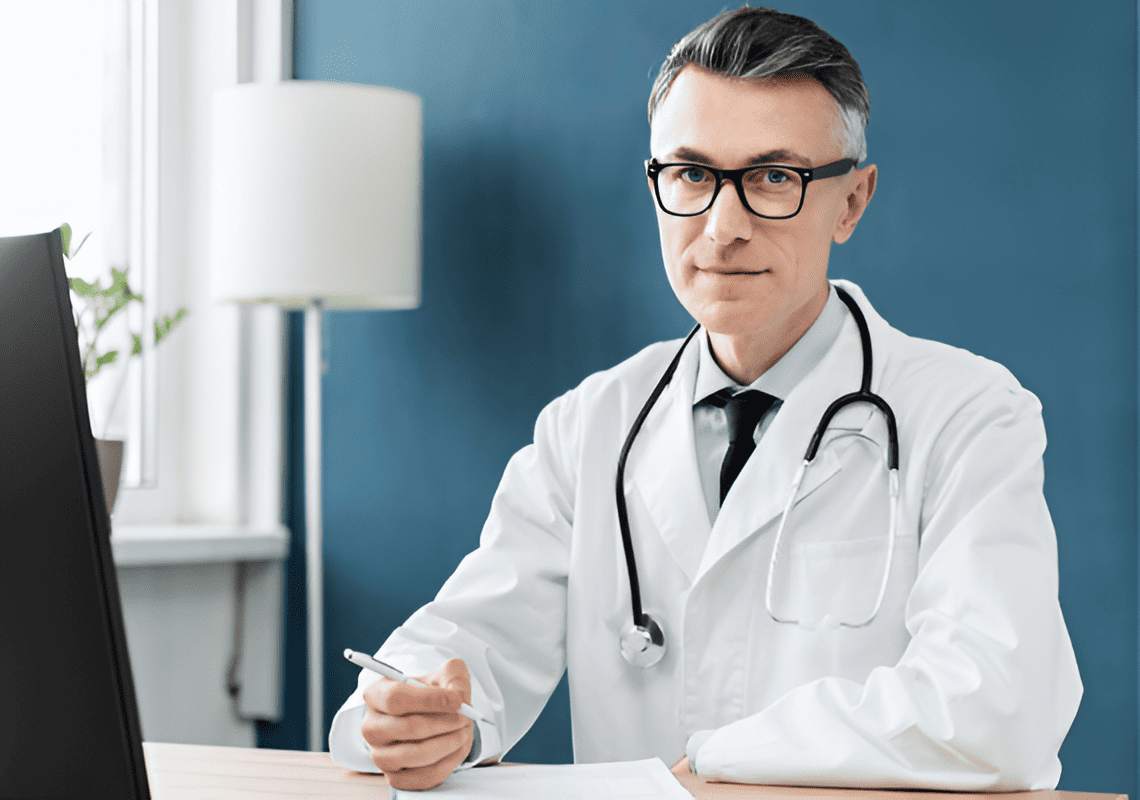
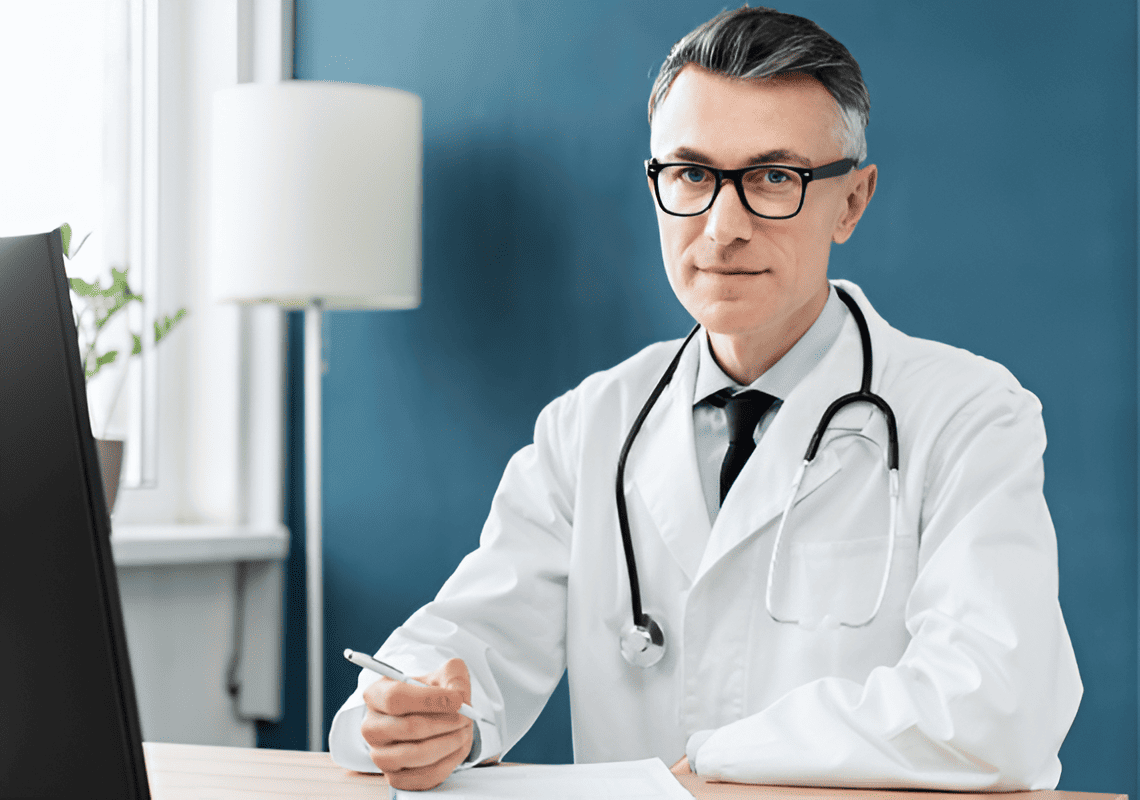
changes images

diff --git a/index.html b/index.html
@@ -43,7 +43,7 @@
             <div class="hero-container-1">
                 <h2 class="title">We are <span class="red-word-title">dedicated</span> to&nbsp;improving heart health and&nbsp;<span class="red-word-title">saving</span> lives</h2>
                 <p class="text-style-body-m">Join us in our commitment to a heart-healthy future by exploring our&nbsp;programs, accessing valuable health information, and discovering how you can get involved in our community</p>
-                <button class="how-it-work-button primary-btn xl-btn">How it work</button>
+                <button class="how-it-works-button primary-btn xl-btn">How it works</button>
             </div>
 
             <div class="hero-container-2">
@@ -67,16 +67,16 @@
 
         <div class="grid-container-section-3">
             <div class="card-1">
-                <img class="narrow-image" src="Images/Rectangle 21.png" alt="Image">
+                <img class="narrow-image" src="Images/card-1-img.png" alt="Image">
                 <div class="card-info">
-                    <h3 class="text-style-subtitle-h1">Remote monitoring support</h3>
-                    <p class="text-style-body-s">Wearable devices and mobile apps</p>
+                    <h3 class="text-style-subtitle-h1">3D printing for heart models</h3>
+                    <p class="text-style-body-s">Use 3D-printed heart models</p>
                 </div>
                 <button class="read-more-button link-btn l-btn">Read more</button>
             </div>
 
             <div class="card-2">
-                <img class="wide-image" src="Images/Rectangle 20.png" alt="Image">
+                <img class="wide-image" src="Images/card-2-img.png" alt="Image">
                 <div class="card-info">
                     <h3 class="text-style-subtitle-h1">Wearable devices for control</h3>
                     <p class="text-style-body-s">Smartwatches and other devices</p>
@@ -85,16 +85,16 @@
             </div>
 
             <div class="card-3">
-                <img class="narrow-image" src="Images/Rectangle 22.png" alt="Image">
+                <img class="narrow-image" src="Images/card-3-img.png" alt="Image">
                 <div class="card-info">
-                    <h3 class="text-style-subtitle-h1">Genetic testing and medicine</h3>
-                    <p class="text-style-body-s">Genetic screenings for prevention</p>
+                    <h3 class="text-style-subtitle-h1">Telemedicine for education</h3>
+                    <p class="text-style-body-s">Solution to underserved communities</p>
                 </div>
                 <button class="read-more-button link-btn l-btn">Read more</button>
             </div>
 
             <div class="card-4">
-                <img class="narrow-image" src="Images/Rectangle 19.png" alt="Image">
+                <img class="narrow-image" src="Images/card-4-img.png" alt="Image">
                 <div class="card-info">
                     <h3 class="text-style-subtitle-h1">Minimally invasive procedures</h3>
                     <p class="text-style-body-s">Technologies for heart surgeries</p>
@@ -103,25 +103,25 @@
             </div>
 
             <div class="card-5">
-                <img class="narrow-image" src="Images/Rectangle 23.png" alt="Image">
+                <img class="narrow-image" src="Images/card-5-img.png" alt="Image">
                 <div class="card-info">
-                    <h3 class="text-style-subtitle-h1">Telemedicine for education</h3>
-                    <p class="text-style-body-s">Solution to underserved communities</p>
+                    <h3 class="text-style-subtitle-h1">Genetic testing and medicine</h3>
+                    <p class="text-style-body-s">Genetic screenings for prevention</p>
                 </div>
                 <button class="read-more-button link-btn l-btn">Read more</button>
             </div>
 
             <div class="card-6">
-                <img class="narrow-image" src="Images/Rectangle 25.png" alt="Image">
+                <img class="narrow-image" src="Images/card-6-img.png" alt="Image">
                 <div class="card-info">
-                    <h3 class="text-style-subtitle-h1">3D printing for heart models</h3>
-                    <p class="text-style-body-s">Use 3D-printed heart models</p>
+                    <h3 class="text-style-subtitle-h1">Remote monitoring support</h3>
+                    <p class="text-style-body-s">Wearable devices and mobile apps</p>
                 </div>
                 <button class="read-more-button link-btn l-btn">Read more</button>
             </div>
 
             <div class="card-7">
-                <img class="wide-image" src="Images/Rectangle 24.png" alt="Image">
+                <img class="wide-image" src="Images/card-7-img.png" alt="Image">
                 <div class="card-info">
                     <h3 class="text-style-subtitle-h1">AI-Assisted diagnostics</h3>
                     <p class="text-style-body-s">AI-driven tools for analyzing</p>
@@ -137,7 +137,7 @@
             <div class="news-cards-container">
            
                 <article class="news-card">
-                    <img class="news-image" src="Images/Rectangle 26.png" alt="image">
+                    <img class="news-image" src="Images/news-1-img.png" alt="image">
                         <div class="news-data">
                             <time class="text-style-body-xs" datetime="2025-02-18">18.02.2025</time>
                         </div>
@@ -149,7 +149,7 @@
                     </article>
 
                 <article class="news-card">
-                    <img class="news-image" src="Images/Rectangle 27.png" alt="image">
+                    <img class="news-image" src="Images/news-2-img.png" alt="image">
                     <div class="news-data">
                         <time class="text-style-body-xs" datetime="2025-01-12">12.01.2025</time>
                     </div>
@@ -161,7 +161,7 @@
                 </article>
 
                 <article class="news-card">
-                    <img class="news-image" src="Images/Rectangle 28.png" alt="image">
+                    <img class="news-image" src="Images/news-3-img.png" alt="image">
                     <div class="news-data">
                         <time class="text-style-body-xs" datetime="2024-12-12">12.12.2024</time>
                     </div>

diff --git a/styles.css b/styles.css
@@ -323,9 +323,9 @@
     max-width: 590px;
 }
 
-.how-it-work-button {
+.how-it-works-button {
     margin-top: 60px;
-    max-width: 240px;
+    max-width: 249px;
     padding: 20px 64px;
     transition: background-color 0.3s ease, color 0.3s ease, outline 0.3s ease, transform 0.2s ease;
 
